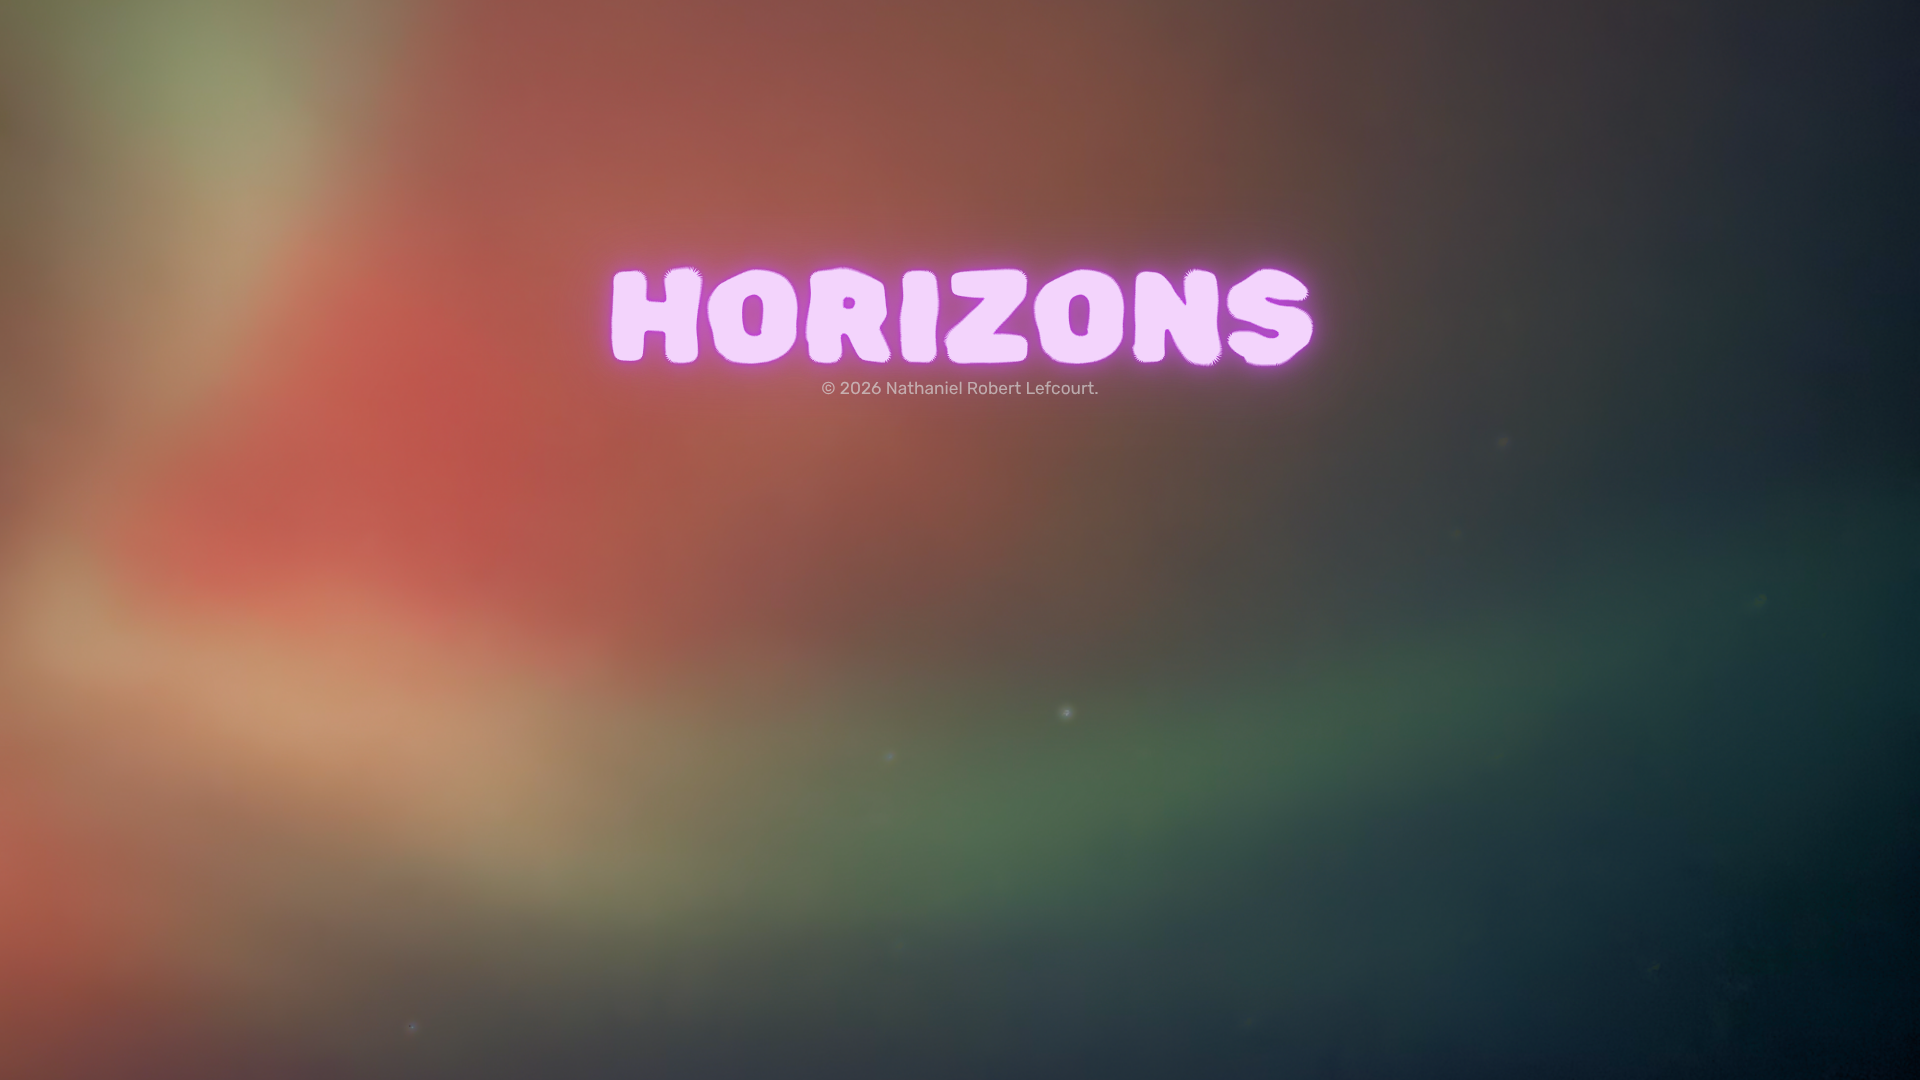
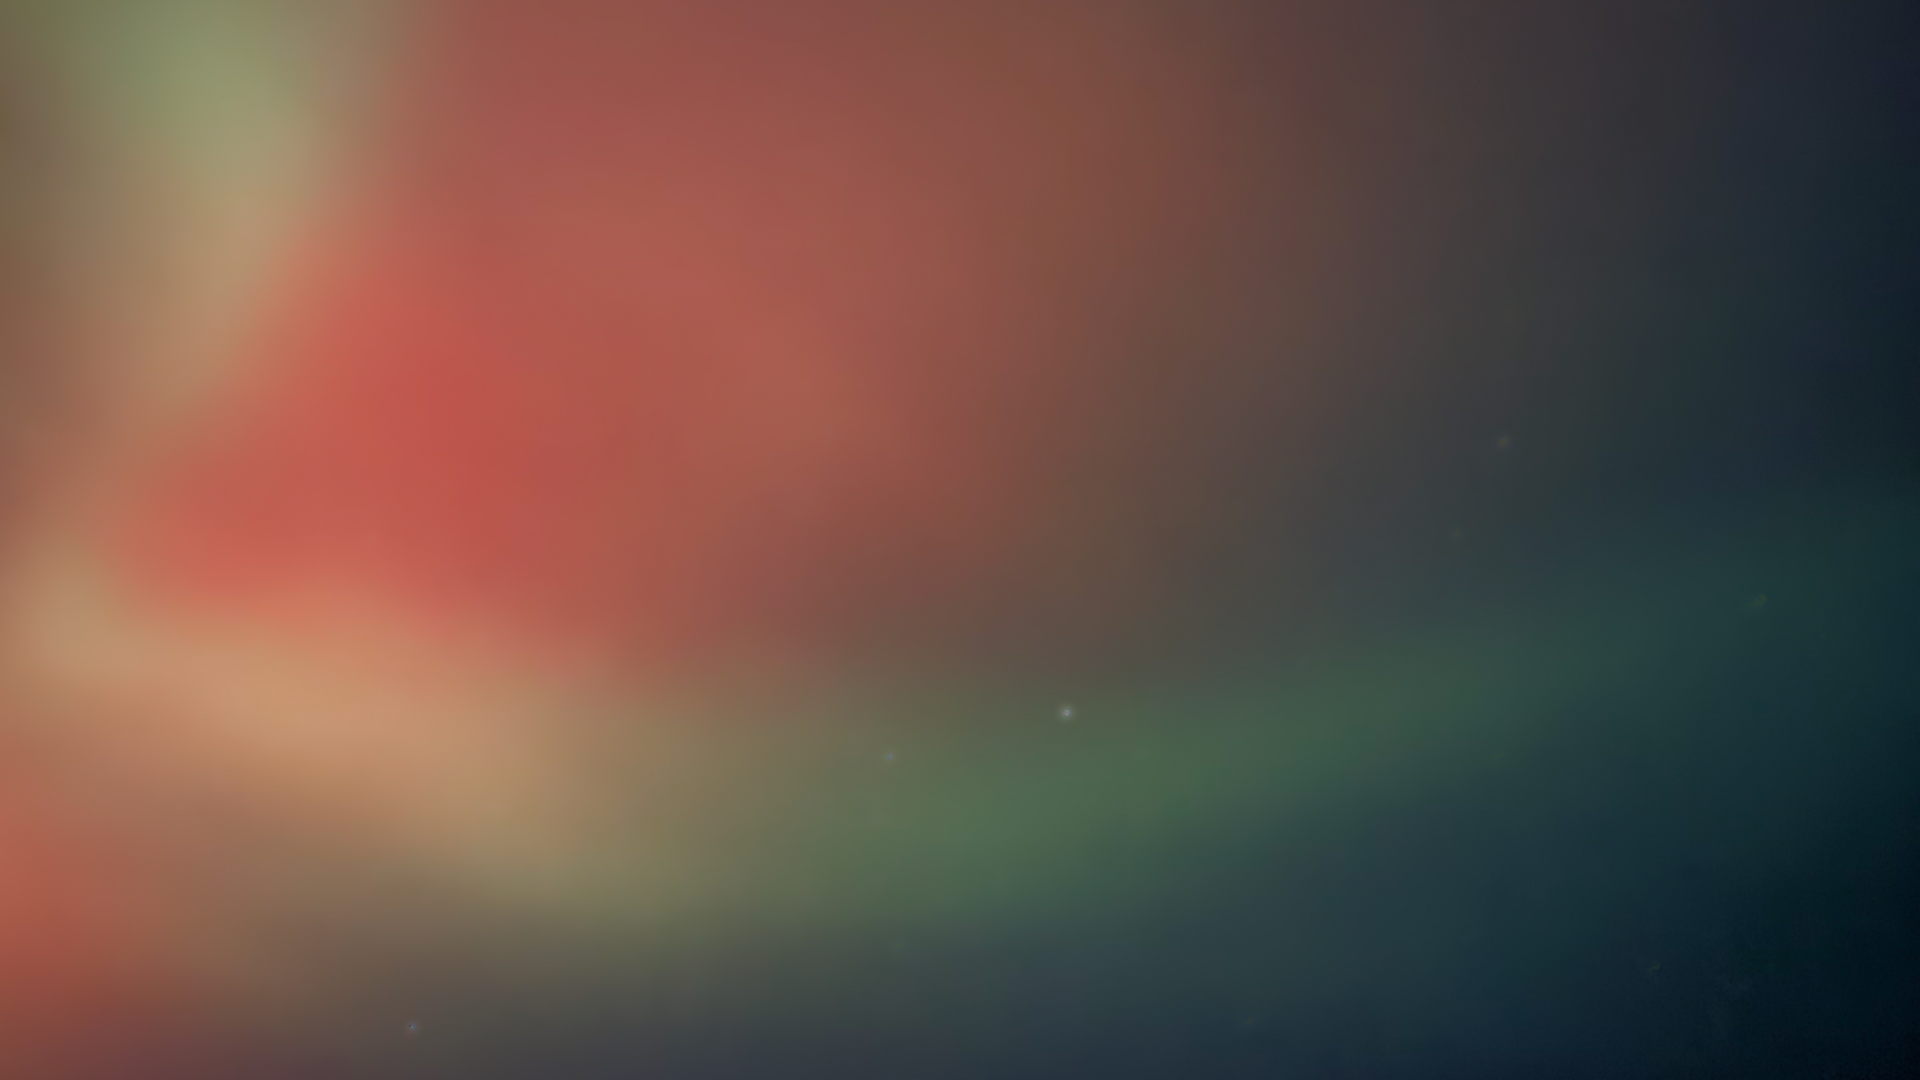
Home screen: Rubik + Rubik Spray Paint on the plain aurora backdrop [skip ci]
Reverts to the original lobby layout — the wordmark and copyright drawn over
the artwork — now that the background is a plain aurora with no baked-in text,
and moves the whole app onto Rubik.

The HORIZONS wordmark uses Rubik Spray Paint. It's a single-weight display
face, so the old 800 weight and 0.14em tracking are dropped, and the pink is
lifted to a glow over near-white so the spray texture reads instead of being
lost in a flat fill.

Everything else is Rubik, loaded from Google Fonts alongside it. Form controls
needed an explicit `font-family: inherit` — buttons and inputs don't inherit
the body font on their own, so they were still rendering in Arial.

The background scrim is much lighter than before: the new art is already dark,
and the old full-height gradient flattened the aurora.

Verified in the browser: both families load, the wordmark resolves to Rubik
Spray Paint, buttons and in-game UI to Rubik, and the board still renders with
no broken shapes.

Changed region(s): [[0.3125, 0.2139, 0.7188, 0.3667]]

diff --git a/src/ui/GameOver.jsx b/src/ui/GameOver.jsx
@@ -47,9 +47,8 @@ export function GameOver({ winner, myPlayerId, myPoints, oppPoints, onPlayAgain 
 }
 
 // ── BrandBackdrop ─────────────────────────────────────────────────────────────
-// The title art, shared by the lobby and the waiting-for-opponent screen so they
-// look identical. The wordmark and copyright are part of the artwork itself, so
-// nothing is drawn over it — children sit in the empty lower half.
+// Aurora backdrop + the HORIZONS wordmark, shared by the lobby and the
+// waiting-for-opponent screen so they look identical. Renders children below.
 
 export function BrandBackdrop({ children }) {
   return (
@@ -57,20 +56,35 @@ export function BrandBackdrop({ children }) {
       display: 'flex', alignItems: 'center', justifyContent: 'center',
       flexDirection: 'column', gap: 44,
       width: '100%', height: '100%',
-      // The wordmark sits in the upper third of the art, so reserve that space
-      // and centre the controls in what's left rather than over the title.
-      paddingTop: 'min(34vh, 380px)',
-      boxSizing: 'border-box',
-      overflowY: 'auto',
       backgroundColor: '#07070f',
-      // Only a light bottom vignette — enough to keep buttons legible without
-      // muting the artwork the way the old heavy scrim did.
+      // A light scrim only: the artwork is already dark, and a heavy one flattens
+      // the aurora. Just enough to keep the controls legible.
       backgroundImage:
-        'linear-gradient(to bottom, rgba(5,5,12,0) 40%, rgba(5,5,12,0.45) 100%), url(/lobby-bg.png)',
+        'linear-gradient(to bottom, rgba(5,5,12,0.15) 0%, rgba(5,5,12,0.1) 45%, rgba(5,5,12,0.5) 100%), url(/lobby-bg.png)',
       backgroundSize: 'cover, cover',
       backgroundPosition: 'center, center',
       backgroundRepeat: 'no-repeat, no-repeat',
     }}>
+      {/* HORIZONS wordmark + copyright — crisp layer over the photo */}
+      <div style={{ textAlign: 'center' }}>
+        <div style={{
+          // Rubik Spray Paint is a single-weight display face, so the weight and
+          // tight tracking of the old wordmark would fight it.
+          fontFamily: "'Rubik Spray Paint', 'Rubik', system-ui, sans-serif",
+          fontSize: 82, fontWeight: 400, letterSpacing: '0.04em',
+          color: '#ffd6f5',
+          textShadow: '0 0 26px rgba(255,0,153,0.85), 0 0 60px rgba(255,0,153,0.45), 0 2px 30px rgba(0,0,0,0.5)',
+          lineHeight: 1.15,
+        }}>
+          HORIZONS
+        </div>
+        <div style={{
+          fontSize: 11, color: 'rgba(255,255,255,0.62)',
+          marginTop: 10, letterSpacing: '0.05em',
+        }}>
+          © 2026 Nathaniel Robert Lefcourt
+        </div>
+      </div>
       {children}
     </div>
   )

diff --git a/index.html b/index.html
@@ -4,10 +4,18 @@
     <meta charset="UTF-8" />
     <meta name="viewport" content="width=device-width, initial-scale=1.0" />
     <title>Horizons</title>
+    <link rel="preconnect" href="https://fonts.googleapis.com" />
+    <link rel="preconnect" href="https://fonts.gstatic.com" crossorigin />
+    <link
+      href="https://fonts.googleapis.com/css2?family=Rubik:wght@300..900&family=Rubik+Spray+Paint&display=swap"
+      rel="stylesheet"
+    />
     <style>
       *, *::before, *::after { box-sizing: border-box; margin: 0; padding: 0; }
       html, body, #root { width: 100%; height: 100%; overflow: hidden; }
-      body { background: #0a0a0f; font-family: system-ui, sans-serif; }
+      body { background: #0a0a0f; font-family: 'Rubik', system-ui, sans-serif; }
+      /* Form controls don't inherit the body font on their own. */
+      button, input, select, textarea { font-family: inherit; }
     </style>
   </head>
   <body>
